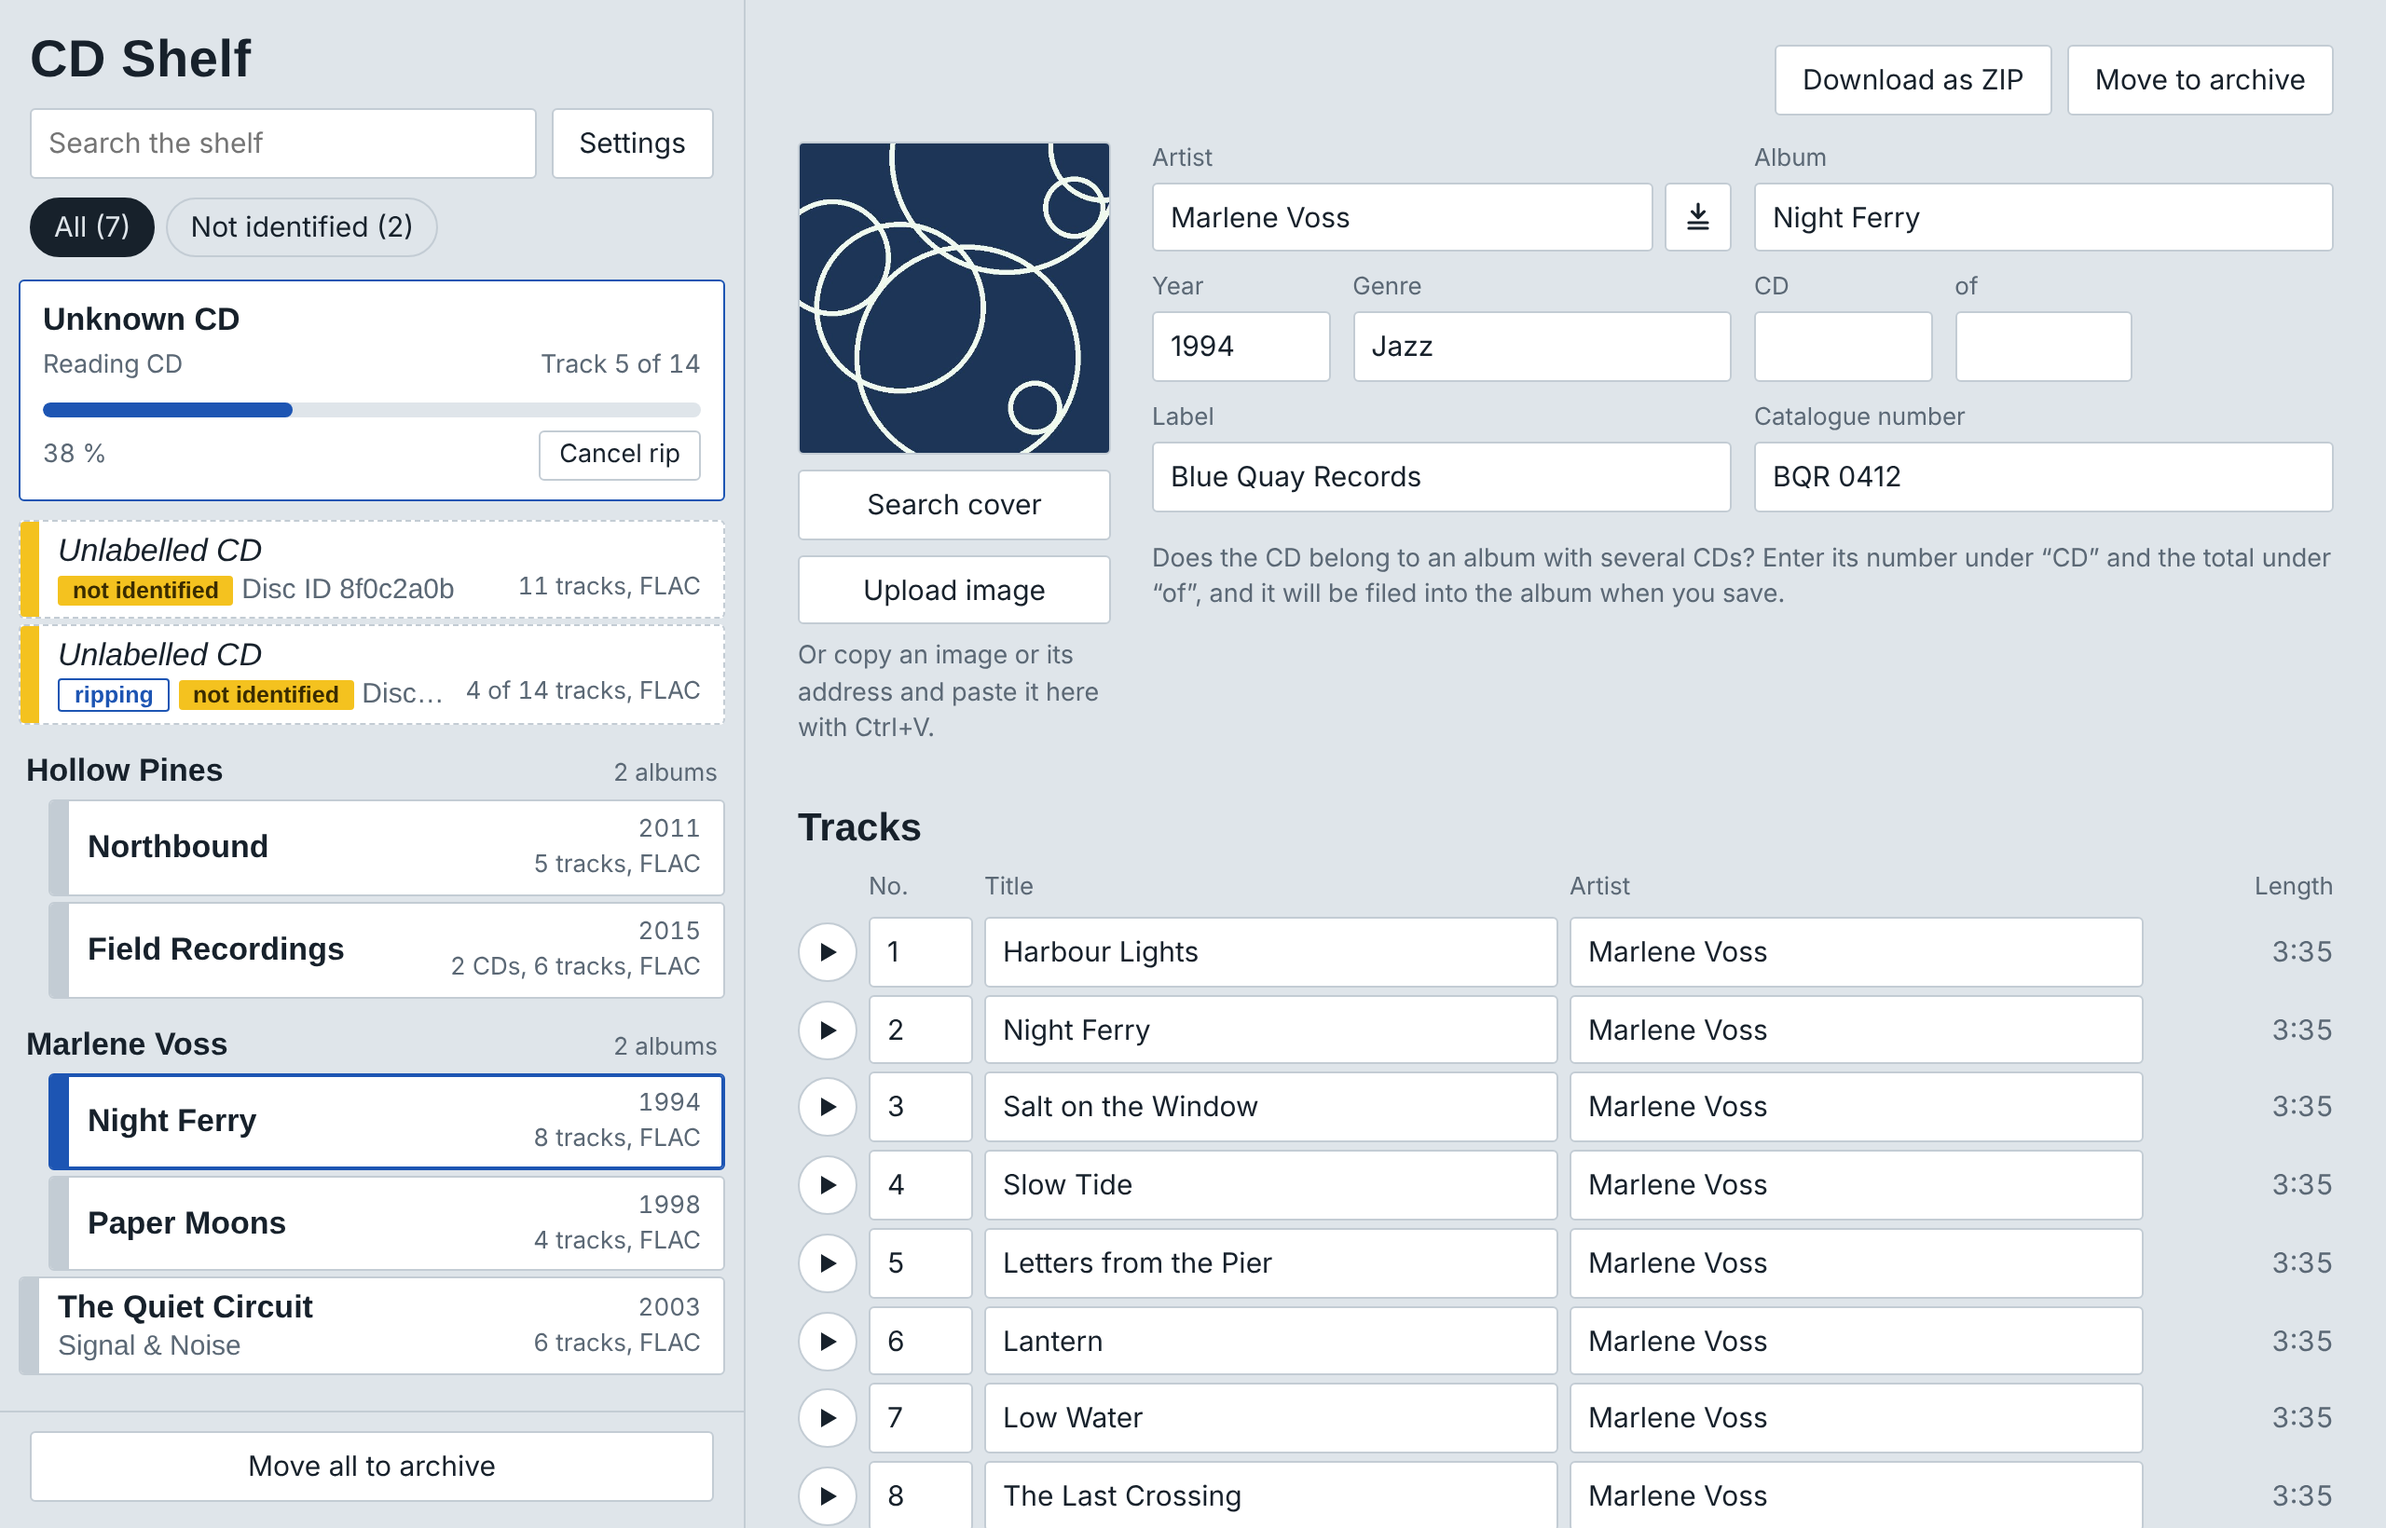
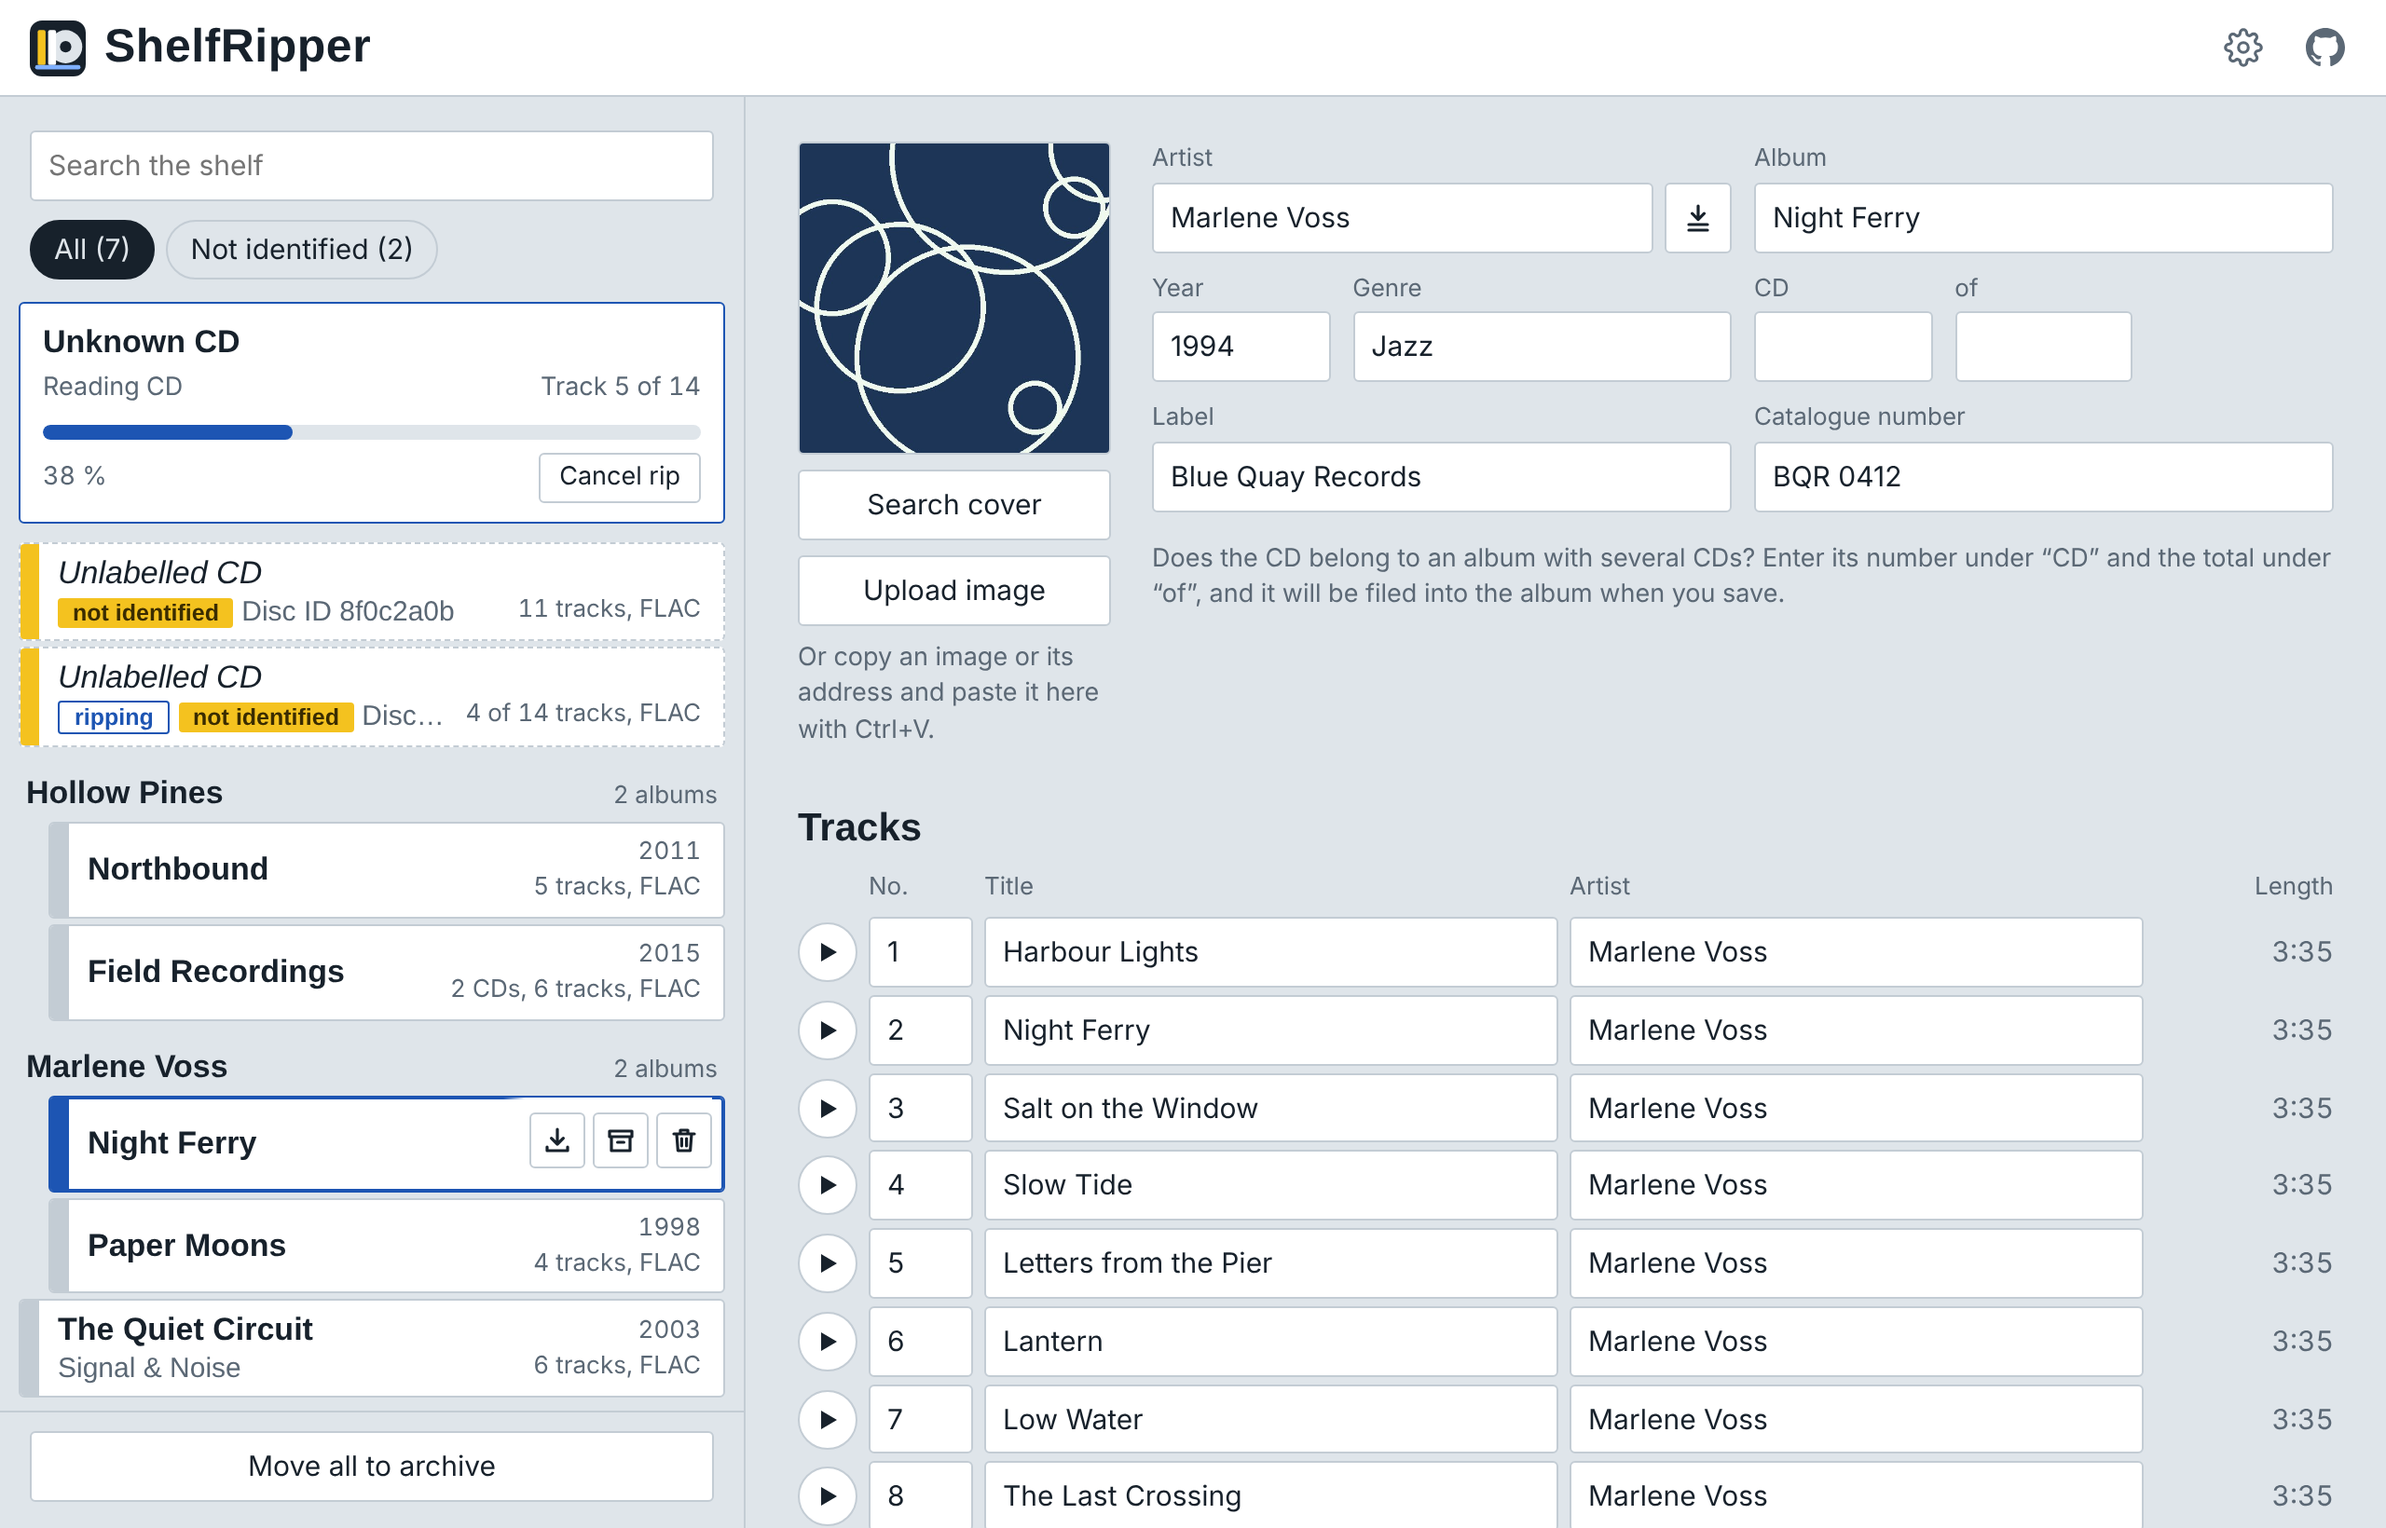
Kopfzeile mit ShelfRipper-Schriftzug, Einstellungen und GitHub-Link
Claude-Session: https://claude.ai/code/session_01ETQJbHaykycJa31k7r1wcl

diff --git a/web/static/index.html b/web/static/index.html
@@ -3,7 +3,7 @@
 <head>
 <meta charset="utf-8">
 <meta name="viewport" content="width=device-width, initial-scale=1">
-<title>CD-Regal</title>
+<title>ShelfRipper</title>
 <link rel="icon" href="/static/favicon.svg" type="image/svg+xml">
 <link rel="alternate icon" href="/favicon.ico" sizes="any">
 <link rel="apple-touch-icon" href="/static/apple-touch-icon.png">
@@ -37,7 +37,18 @@ button, input, select { font: inherit; color: inherit; }
 button { cursor: pointer; }
 :focus-visible { outline: 2px solid var(--action); outline-offset: 2px; }
 
-.app { display: grid; grid-template-columns: minmax(300px, 400px) 1fr; height: 100vh; }
+body { display: flex; flex-direction: column; height: 100vh; }
+.topbar { flex: none; display: flex; align-items: center; justify-content: space-between; gap: 12px;
+  height: 52px; padding: 0 14px 0 16px; background: var(--case); border-bottom: 1px solid var(--line); }
+.brand { display: flex; align-items: center; gap: 10px; color: var(--ink); text-decoration: none; }
+.brand img { width: 30px; height: 30px; display: block; }
+.brand span { font: 700 25px/1 var(--spine); font-stretch: 75%; letter-spacing: .01em; }
+.top-actions { display: flex; align-items: center; gap: 6px; }
+.topbtn { width: 38px; height: 38px; display: grid; place-items: center; padding: 0; border: 1px solid transparent;
+  border-radius: 4px; background: transparent; color: var(--soft); cursor: pointer; }
+.topbtn:hover { color: var(--action); border-color: var(--line); }
+.topbtn svg { width: 21px; height: 21px; display: block; }
+.app { display: grid; grid-template-columns: minmax(300px, 400px) 1fr; flex: 1; min-height: 0; }
 
 /* ---------- Regal (Liste) ---------- */
 .rack { display: flex; flex-direction: column; min-height: 0; border-right: 1px solid var(--line); }
@@ -216,13 +227,22 @@ a.btn[aria-disabled="true"] { opacity: .5; pointer-events: none; }
 </style>
 </head>
 <body>
+<header class="topbar">
+  <a class="brand" href="/" aria-label="ShelfRipper"><img src="/static/favicon.svg" alt=""><span>ShelfRipper</span></a>
+  <nav class="top-actions">
+    <button type="button" class="topbtn" id="open-settings" data-i18n-label="Einstellungen" data-i18n-title="Einstellungen">
+      <svg viewBox="0 0 24 24" fill="none" stroke="currentColor" stroke-width="1.8" stroke-linecap="round" stroke-linejoin="round" aria-hidden="true"><circle cx="12" cy="12" r="3"/><path d="M19.4 15a1.65 1.65 0 0 0 .33 1.82l.06.06a2 2 0 1 1-2.83 2.83l-.06-.06a1.65 1.65 0 0 0-1.82-.33 1.65 1.65 0 0 0-1 1.51V21a2 2 0 1 1-4 0v-.09A1.65 1.65 0 0 0 9 19.4a1.65 1.65 0 0 0-1.82.33l-.06.06a2 2 0 1 1-2.83-2.83l.06-.06A1.65 1.65 0 0 0 4.68 15a1.65 1.65 0 0 0-1.51-1H3a2 2 0 1 1 0-4h.09A1.65 1.65 0 0 0 4.6 9a1.65 1.65 0 0 0-.33-1.82l-.06-.06a2 2 0 1 1 2.83-2.83l.06.06A1.65 1.65 0 0 0 9 4.68a1.65 1.65 0 0 0 1-1.51V3a2 2 0 1 1 4 0v.09a1.65 1.65 0 0 0 1 1.51 1.65 1.65 0 0 0 1.82-.33l.06-.06a2 2 0 1 1 2.83 2.83l-.06.06A1.65 1.65 0 0 0 19.4 9a1.65 1.65 0 0 0 1.51 1H21a2 2 0 1 1 0 4h-.09a1.65 1.65 0 0 0-1.51 1z"/></svg>
+    </button>
+    <a class="topbtn" href="https://github.com/stobiaskoch/shelfripper" target="_blank" rel="noopener" aria-label="GitHub" title="GitHub">
+      <svg viewBox="0 0 16 16" fill="currentColor" aria-hidden="true"><path d="M8 0C3.58 0 0 3.58 0 8c0 3.54 2.29 6.53 5.47 7.59.4.07.55-.17.55-.38 0-.19-.01-.82-.01-1.49-2.01.37-2.53-.49-2.69-.94-.09-.23-.48-.94-.82-1.13-.28-.15-.68-.52-.01-.53.63-.01 1.08.58 1.23.82.72 1.21 1.87.87 2.33.66.07-.52.28-.87.51-1.07-1.78-.2-3.64-.89-3.64-3.95 0-.87.31-1.59.82-2.15-.08-.2-.36-1.02.08-2.12 0 0 .67-.21 2.2.82.64-.18 1.32-.27 2-.27.68 0 1.36.09 2 .27 1.53-1.04 2.2-.82 2.2-.82.44 1.1.16 1.92.08 2.12.51.56.82 1.27.82 2.15 0 3.07-1.87 3.75-3.65 3.95.29.25.54.73.54 1.48 0 1.07-.01 1.93-.01 2.2 0 .21.15.46.55.38A8.013 8.013 0 0 0 16 8c0-4.42-3.58-8-8-8z"/></svg>
+    </a>
+  </nav>
+</header>
 <div class="app" id="app">
   <aside class="rack">
     <div class="rack-head">
-      <h1 data-i18n="CD-Regal"></h1>
       <div class="rack-tools">
         <input type="search" id="filter" name="regal-filter" data-i18n-ph="Im Regal suchen" data-i18n-label="Im Regal suchen" autocomplete="off" autocorrect="off" autocapitalize="off" spellcheck="false">
-        <button class="btn" id="open-settings" data-i18n="Einstellungen"></button>
       </div>
       <div class="chips">
         <button class="chip" id="chip-all" aria-pressed="true"></button>
@@ -509,7 +529,7 @@ const EN = {
   "Trag zuerst oben einen Interpreten ein.": "Enter an artist above first.",
   "Interpret für alle {n} Titel übernommen": "Artist applied to all {n} tracks",
   "Diese Datei ist kein lesbares Bild.": "This file is not a readable image.",
-  "Ins CD-Regal übernehmen": "Send to CD Shelf",
+  "Zu ShelfRipper übernehmen": "Send to ShelfRipper",
   "Der Browser hat das Suchfenster blockiert. Bitte Pop-ups für diese Seite erlauben.": "The browser blocked the search window. Please allow pop-ups for this page.",
   "Lädt das Bild": "Loading the image",
   "Cover übernommen. Es wird mit „Tags speichern“ geschrieben.": "Cover taken over. It is written with “Save tags”.",
@@ -550,10 +570,11 @@ const tracksText = n => n === 1 ? t("1 Titel") : t("{n} Titel", { n });
 // Feste Texte der Seite (Überschriften, Knöpfe, Dialoge) in der gewählten Sprache eintragen
 function applyStaticTexts() {
   document.documentElement.lang = state.lang;
-  document.title = t("CD-Regal");
+  document.title = "ShelfRipper";
   document.querySelectorAll("[data-i18n]").forEach(el => { el.textContent = t(el.dataset.i18n); });
   document.querySelectorAll("[data-i18n-ph]").forEach(el => { el.placeholder = t(el.dataset.i18nPh); });
   document.querySelectorAll("[data-i18n-label]").forEach(el => { el.setAttribute("aria-label", t(el.dataset.i18nLabel)); });
+  document.querySelectorAll("[data-i18n-title]").forEach(el => { el.title = t(el.dataset.i18nTitle); });
   $("#token-help").innerHTML = esc(t("Das Token erzeugst du kostenlos unter {link} mit „Generate new token“.")).replace("{link}",
     '<a href="https://www.discogs.com/settings/developers" target="_blank" rel="noopener">discogs.com/settings/developers</a>');
 }
@@ -1101,8 +1122,8 @@ function openCoverSearch() {
   url.searchParams.set("sources", "amazonmusic,applemusic,deezer,discogs,itunes,musicbrainz,qobuz,spotify,tidal");
   // Die Suchseite meldet das angeklickte Cover an dieses Fenster zurück
   url.searchParams.set("remote.port", "browser");
-  url.searchParams.set("remote.agent", t("CD-Regal"));
-  url.searchParams.set("remote.text", t("Ins CD-Regal übernehmen"));
+  url.searchParams.set("remote.agent", "ShelfRipper");
+  url.searchParams.set("remote.text", t("Zu ShelfRipper übernehmen"));
   state.covPath = f.path;
   state.covWindow = window.open(url.toString(), "cd-regal-coversuche");
   if (!state.covWindow) toast(t("Der Browser hat das Suchfenster blockiert. Bitte Pop-ups für diese Seite erlauben."), true);
